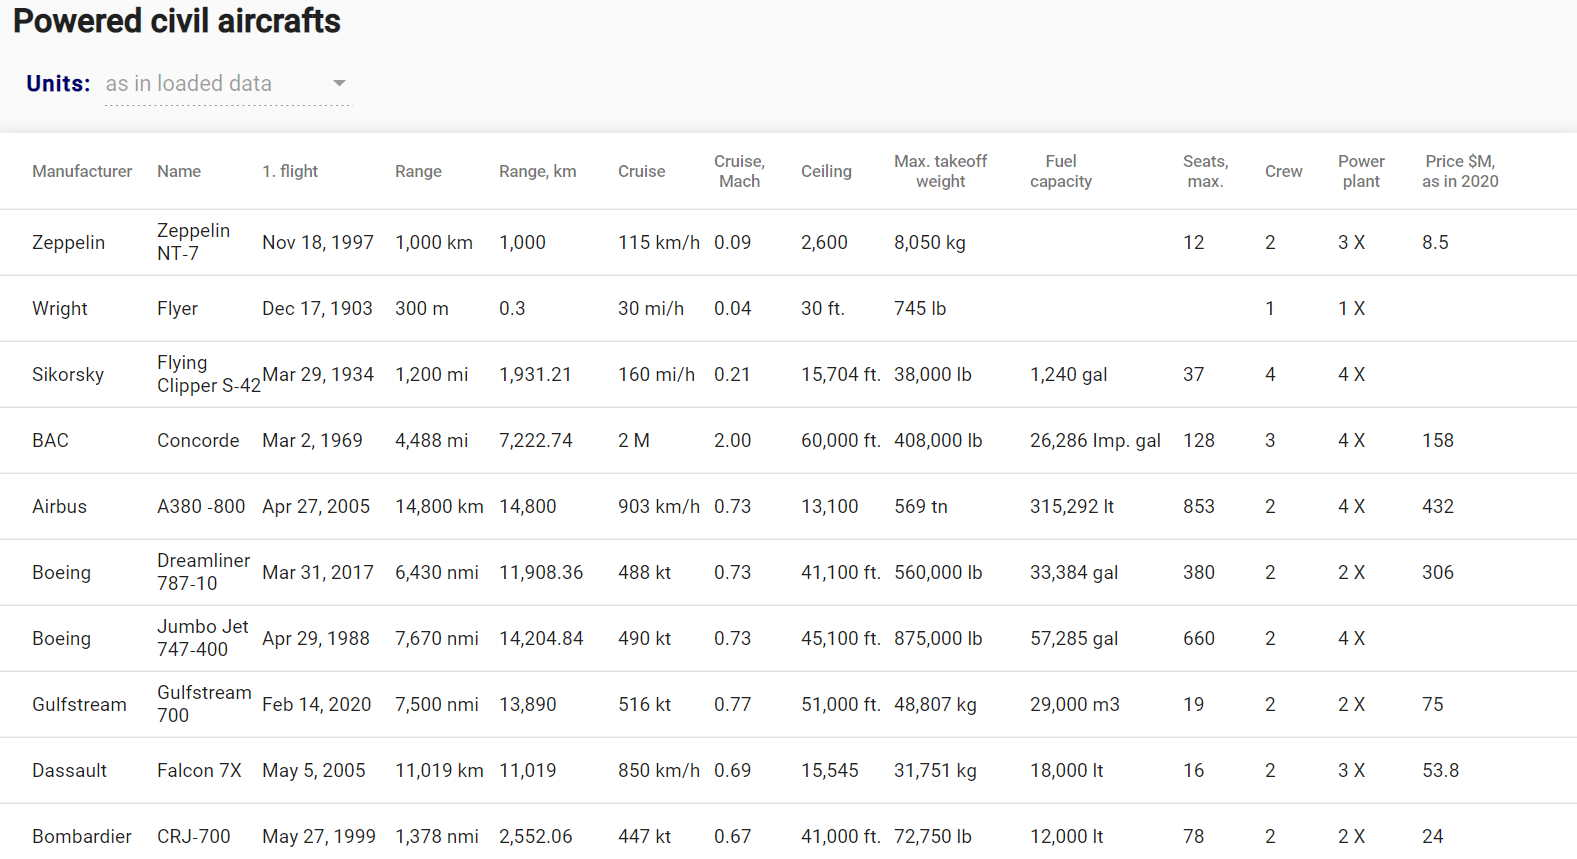
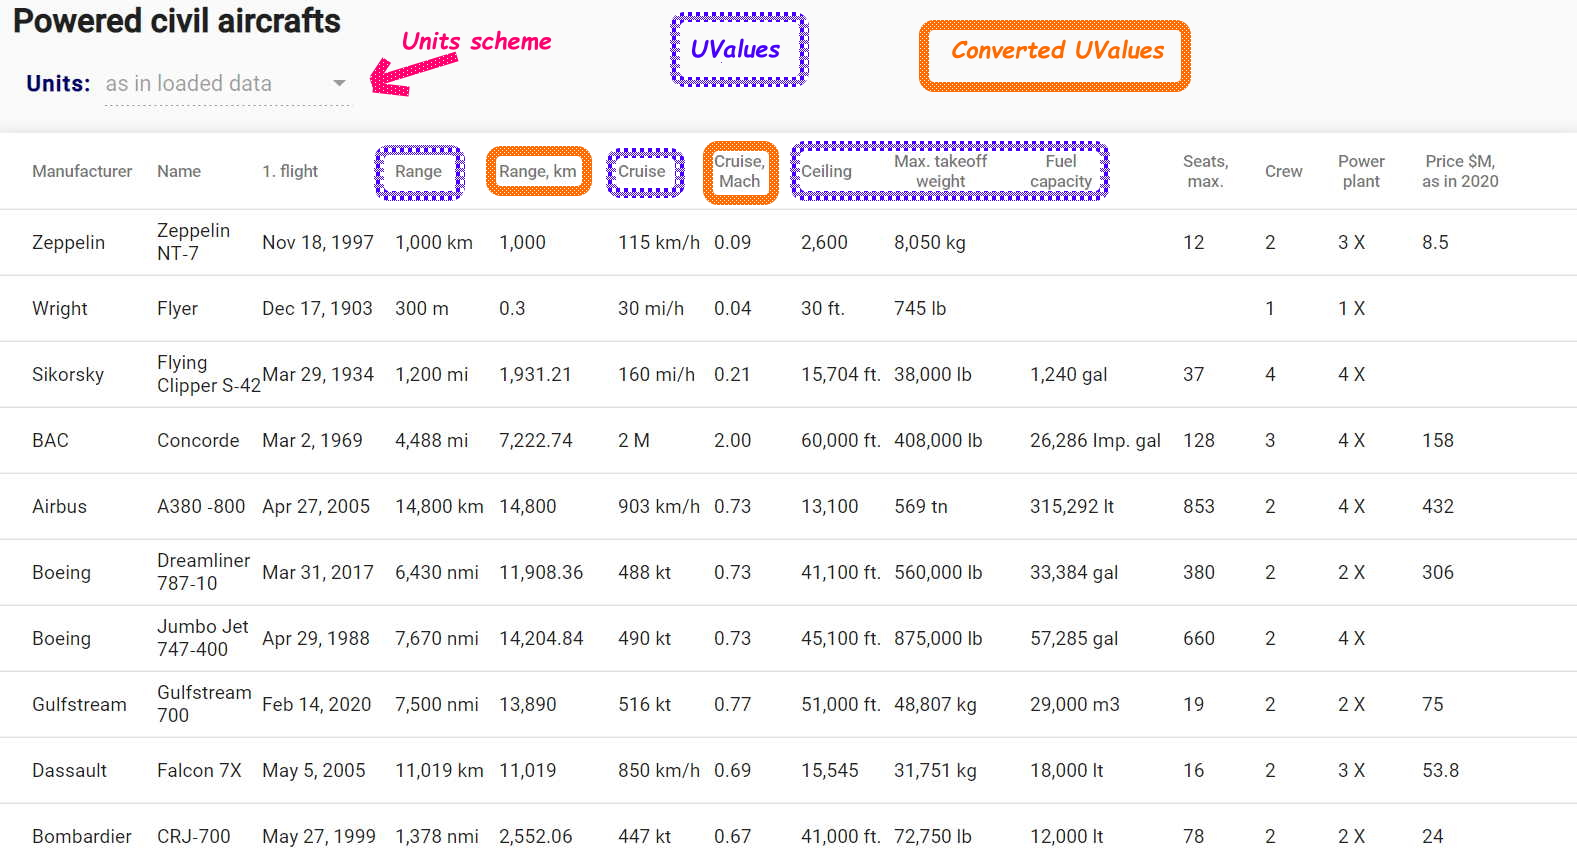
update

diff --git a/readme+/dev_concepts.md b/readme+/dev_concepts.md
@@ -1,39 +1,39 @@
 # Overall development concepts
 That's what i learned from numerous corporate and tailor-made projects, and would like to share.&nbsp;&nbsp;&nbsp;<sup>**_d**</sup>
 
-<sup>**_d**</sup><sub>&nbsp;&nbsp;Disclaimer:&nbsp;due to the lack of time and hunge amount of coding/refactoring i couldn't follow all those practicies in this project</sub>
+&nbsp;&nbsp;<sup>**_d**</sup><sub>&nbsp;&nbsp;Disclaimer:&nbsp;Do not treat this project as a pure sample. Due to the lack of time and hunge amount of coding/refactoring i couldn't follow all those practicies alone.</sub>
 
 ## Naming code entities
-Names of libraries, packages, classes, methods, vars - it's the ultimate challenge: hard and time consuming work of the whole team.&nbsp;&nbsp;<sup>**_t**</sup>\
+Names of libraries, packages (assemblies), classes, methods, vars - it's the ultimate challenge: intricate and time consuming for the whole team.&nbsp;&nbsp;<sup>**_t**</sup>\
 However the benefits are
-+ collaboration, common understanding of a domain and establishing one 'common tongue' throughout the team 
++ collaboration, common comprehension of a domain that result in 'common tongue' throughout the team 
 + sound architecture and self-descriptive APIs
 + inspiration for Test Driven Development
-+ eliminating the piles of requirements, specifications and other docu that are hard to comprehense but easy to misunderstood, forget, or mostly ignore
-+ lesser time for a newcomer to get on a project
++ escape from piles of requirements, specifications and other papers that are hard to follow but easy to misunderstood, forget, but mostly ignored
++ reduced time to get on a project for a newcomer 
 
-Well, under time pressure i may also name logics classes as *services*, *helpers*, *utils* but it's barely a good piece of practice.
+Well, under time pressure even the best expert will name logics classes as *services*, *helpers*, *utils* but would be barely proud of that.
 
 &nbsp;&nbsp;<sup>**_t**</sup><sub>&nbsp;&nbsp;The team aren't only developers but customers, testers, and, sure, end users</sub>
 
-## Comments in the code
+## Comments
 Self-descriptive, clean codes need no comments. Otherwise this signalises poor naming.\
-Exclusions are, e.g., references to not fixed third-party bugs (that required a bizzare workaround), courtesy of stackoverflow.com (that explains a cool tech solution), or snippets in readmy's.
+Exclusions are third-party bugs (that required a bizzare workaround), courtesy of Q&A sites, worthy tricks that harm readability, or snippets in docu.
 
 ## Code cleaning and refactoring
-Never change a running system. That's what would opponents of the refactoring tell.
-True, if this is a stable part, which can be treated as black box.
+Never change a running system. That's what would opponents of the refactoring tell.\
+`True` if this is a stable part, which can be treated as a black box.
 
-Otherwise changes and additions within continuos developement will sooner or later bring the code to the hardly controllable chaos.\
+Otherwise changes and enhancements w/out refactoring will sooner or later bring the code to the badly controllable chaos.\
 Thus i'd use any change request to clean the code, update syntax, refactor, improve naming and delete as much as possible.
 
 ## Test driven development
-Broadly misunderstood as test coverage. In my humble opinion it's more about concepts, where a good question is already an answer.
+Broadly misunderstood as test coverage. IMHO it's more about concepts, where a good question is already an answer.
 
 On the other side i'm not an advocate of unit tests for everything.\
-If a method does `2+2` and the postfactum unit test checks it against `2+2`, is it really of great value?\
-But this is ok when tests are logical and written first.
+If a method does `2+2` and a postfactum test checks it against `2+2`, is that really of great value?\
+But Ok when tests are conceptual and written first.
 
 ## Interfaces
-It's not an enlightment щf mine, but in each language interfaces shall be high-granuled, to be further combined in higher-level business-domain interfaces.
+It's not an enlightment of mine, but independent of language interfaces shall be high-granuled, to be further combined in various higher-level domain interfaces.
 With this done, one is safe with the first letter in **S**.O.L.I.D. As well a cast to a basic interface will make development cleaner and prevent much of bugs.

diff --git a/README.md b/README.md
@@ -2,18 +2,16 @@
 This Angular project began in 2020 as a hobby dive of mine into Angular/Typescript.&nbsp;&nbsp;<sup>**_i**
 
 It's all about making physical values (like temperature, mass) integrated in development and decently looking in UI.
-Most modern languages/scripts have already some built-in, like date, time or, hmmm, currency but they're a drop in the sea. 
 
-So far it's **not an overall solution but rather** a **draft** of **groundwork** for **framework**&nbsp;&nbsp;<sup>**_b**</sup>
+**So far it's not an overall solution but rather a draft of possible framework**&nbsp;&nbsp;<sup>**_b**</sup>
 
 &nbsp;&nbsp;<sub><sup>**_i**</sup>&nbsp;&nbsp;nevertheless i'm since 1990s in IT (from deep backend to far frontend) and for the recent decade my *native* language has been amazing **C#**</sub>\
-&nbsp;&nbsp;<sub><sup>**_b**</sup>&nbsp;&nbsp;a big challenge asking for countless controversial concepts and tons of well-tempered code</sub>
+&nbsp;&nbsp;<sub><sup>**_b**</sup>&nbsp;&nbsp;a big challenge asking for countless overlapping concepts and tons of well-tempered code</sub>
 
 ## How it looks for user
-Just `ng build` the only library in this project and `ng serve`. Navigate to **Units**.\
-Or/**and** look at [commented snapshot of this demo](readme+/img_aircrafts-commented.jpg).&nbsp;&nbsp;<sup>**_d**
+Just `ng build` the only library in this project and `ng serve` the app. Navigate to **Units**.\
+Or/**and** look at [commented snapshot of that demo](readme+/img_aircrafts-commented.jpg)
 
-&nbsp;&nbsp;<sup>**_d**</sup><sub>&nbsp;&nbsp;in both there must be a table of aircrafts with many of their props as *UValues*</sub>
 ## How it works for developer
 ### Declaration
 ```typescript
@@ -21,8 +19,6 @@ const theChallengerDeep = meter(10929) // deepest known point in the world ocean
 console.log(theChallengerDeep.value) // 10929
 console.log(theChallengerDeep.unit === Meter) // true
 console.log(theChallengerDeep.unit == Foot) // false
-
-let tempo: velocity; tempo = camera1.flash(aCar)
 
 interface State {
     hightestElevation: distance,
@@ -32,9 +28,9 @@ const Alaska: State = { hightestElevation: foot(20310), recordHigh: fahrenheit(1
 const Bavaria: State = { hightestElevation: meter(2962), recordHigh: celsius(40.3) }
 ```
 ### Conversion of units
-Easier than ABC but still type safe. &nbsp;&nbsp;<sup>**_u**</sup>
+Easier than ABC but still type safe.&nbsp;&nbsp;<sup>**_u**</sup>
 ```typescript
-const bottle = liter(0.5)
+let bottle = liter(0.5)
 const inUkWouldBe = bottle.to(ImperialPint)
 const bottle2 = bottle.to() // use to clone
 euroBottle.to(Meter) // this won't compile
@@ -45,7 +41,7 @@ euroBottle.unit = Liter // this either, even if the same unit
 ### Math operations
 UValue exposes its `value` property that you can set/modify in the usual fashion:
 ```typescript 
-let tempo = milesPerHour(90); tempo.value -= 20; tempo.value = 30 
+const tempo = milesPerHour(90); tempo.value -= 20; tempo.value = 30 
 ```
 
  When it takes more than one `UValue` this project offers the following syntax sugar:&nbsp;&nbsp;<sup>**_o**</sup>
@@ -62,6 +58,8 @@ const takeoffWeight = plane.plus(cargoTotal).minus(pets)
 
 ### Presentation
 Includes formatting, labeling, parsing, ng-pipe and is worth of a [separate report](readme+/doc_uval-presentation.md).
+### Service
+Actions can be avaialble through the service.
 
 ## Predefined UValues
 [Read more](readme+/doc_predefined-uvalues.md)

diff --git a/readme+/dev_guidelines.md b/readme+/dev_guidelines.md
@@ -7,7 +7,7 @@ A weigher can't compare different types of measurables
 
 ## Interfaces
 Surprise for Java/C# developers, that interfaces in TS aren't interfaces. They are rather a join of structs and interfaces. And this is a good part - you spare at least one declaration.
-Thus prefix interfaces with `I` if only it's a pure definition&nbsp;&nbsp;<sup>**_i**</sup>
+Thus prefix interfaces with `I` if only it's either a set of function or a pure definition&nbsp;&nbsp;<sup>**_i**</sup>
 
 <sup>**_i**</sup><sub>&nbsp;&nbsp;rule of thumb - only abstract classes or other interfaces could be ancestors and it's never used for object instantiation, but it shall be used as arguments or return value</sub>
 
@@ -48,12 +48,11 @@ Exceptions (errors) come at a price of performance. And shall be issued when the
 * avoid **`;`** when possible. It's a 'good part' of TS that a line break is enough to terminate statements
 * avoid one-after-one repetitions for even the best named things
     + use cycles of listed subjects
-    + when they are difficult to put together in a list, use *shortcut* abbreviations
+    + when listing is akward *shortcut* to abbreviation
 ```typescript
 const cool = ratherCoolButLongMethodName
-vcbl(a)
-vcbl(bbb)
-vcbl(c3)
+vcbl(a); vcbl(bbb); vcbl(c3)
 // ....
 ```    
 * limit line length - scrolling horizontally is much worse than vertically 
+* ~~code in English, comment in Latin, document en français~~

diff --git a/readme+/_project_concepts.md b/readme+/_project_concepts.md
@@ -1,6 +1,7 @@
 ## Glossary
-Measurable - instance of physical property, like mass, temperature, acceleration
-UValue (aka *uvalue*, *uval*, *UnitValue*) - instance of Measureable, i.e. physical value
++ [Unit](../src/app/components/units/avia/aircrafts/aircrafts-descr-table/aircrafts-descr-table.component.html) - physical measure or scale (e.g. Fahrenheit)
++ Measureable - concept of a physical property, which has *value* and its *unit* 
++ UValue (aka *uvalue*, *uval*, *UnitValue*) - derivative of Measureable, i.e. physical value, like mass, temperature, acceleration
 
 ## How conversion works
 Conversion between differing units of the same nature (measure) is the heart of this framework.
